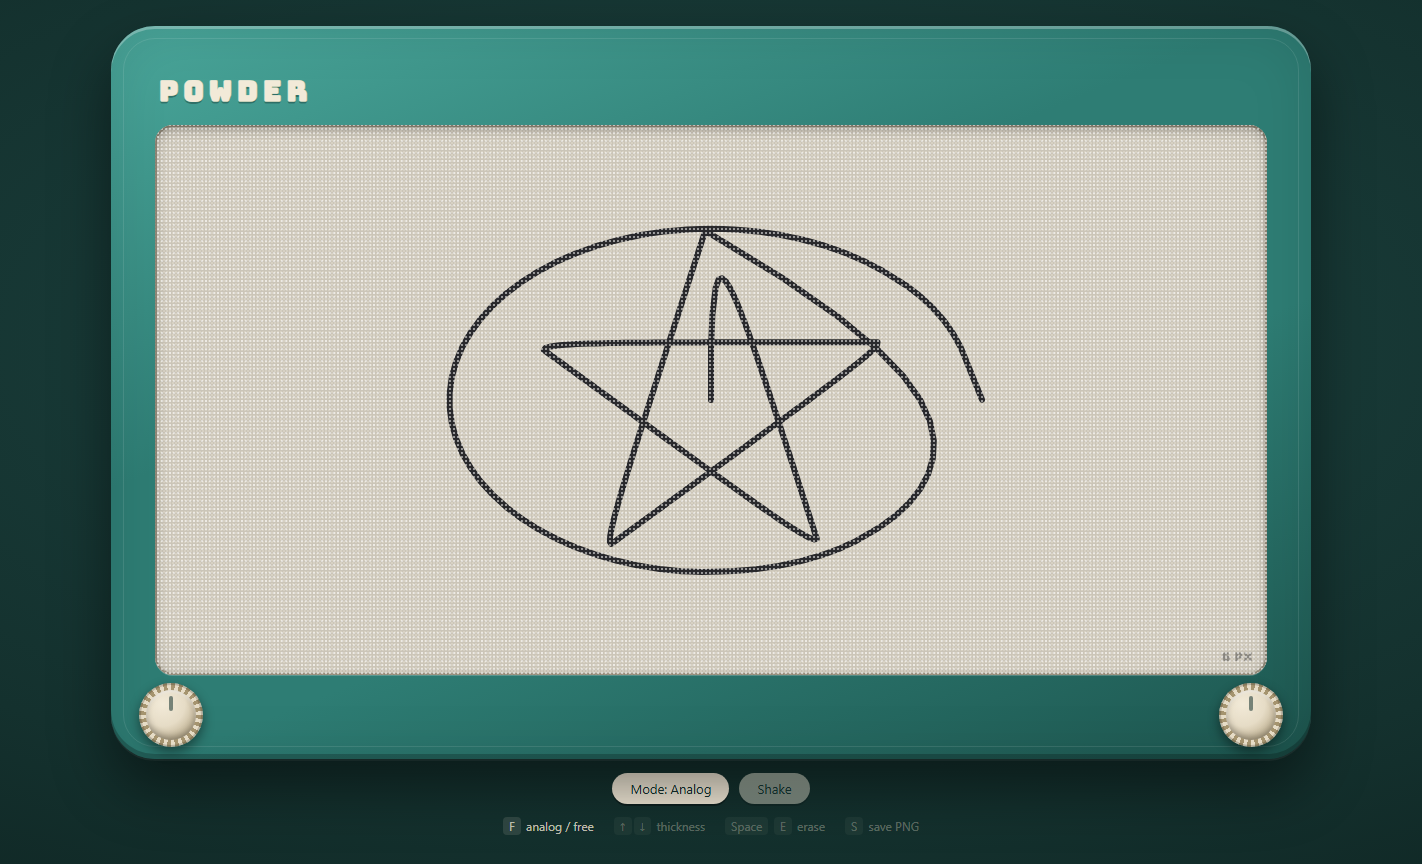
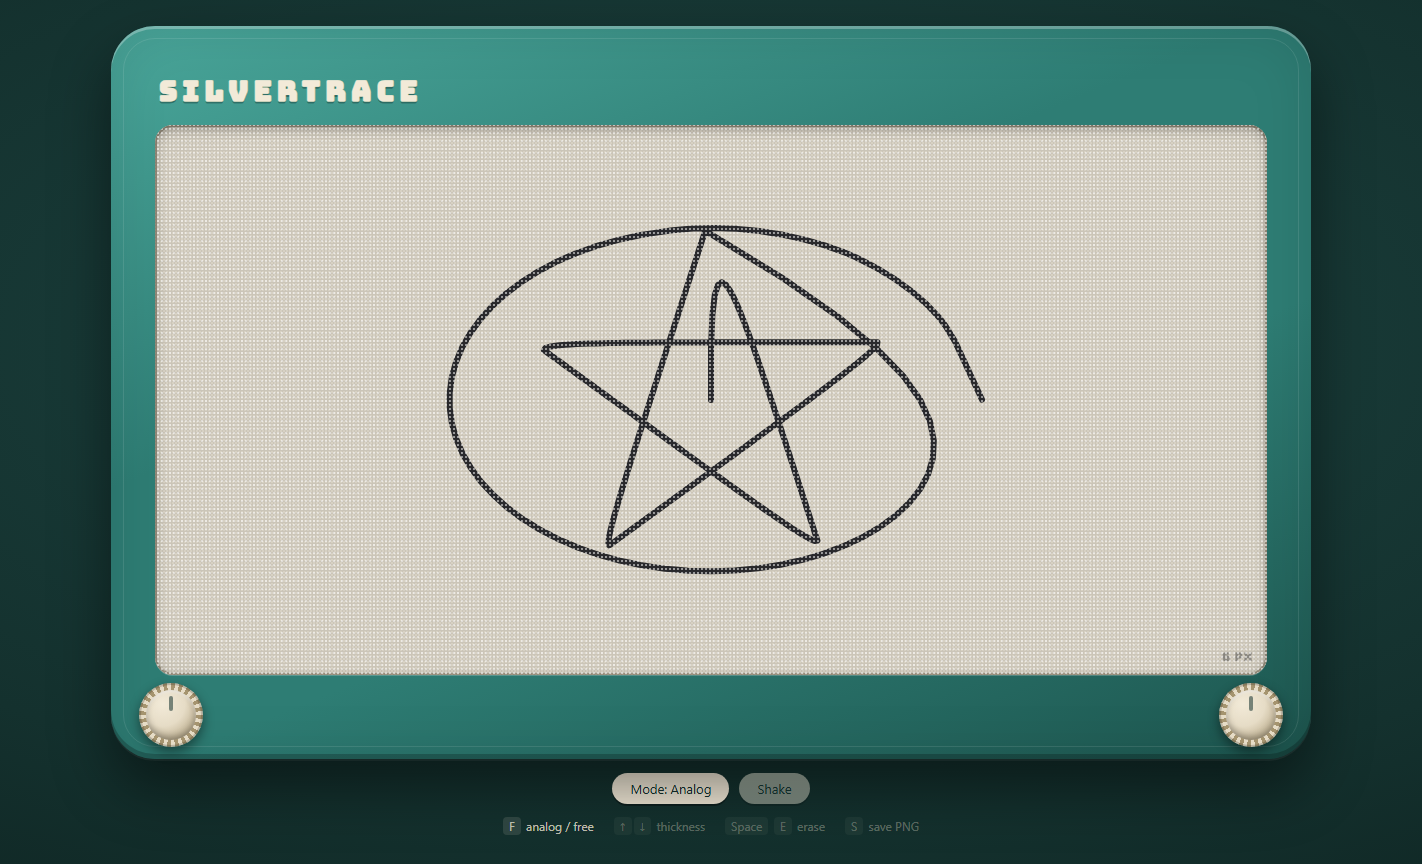
spec+plan: rename the toy to Silvertrace
The name is part of the spec, so this lands as a spec+plan change: title,
wordmark, file headers, and the save filename in the TODO(save) note.

Kept "powder" lowercase wherever it means the material on the screen — the
grain, the fade-out, the --screen swatch — since that is still what the toy
is coated in. Re-captured docs/screenshot.png from the running app so the
wordmark in it matches.

Claude-Session: https://claude.ai/code/session_01LBkHY83tuBzBnzRUBXoFDG

diff --git a/sketch.js b/sketch.js
@@ -1,5 +1,5 @@
 /* =========================================================================
-   Powder — a drawing toy.
+   Silvertrace — a drawing toy.
 
    The core idea: in analog mode the stylus is ALWAYS touching the powder.
    You never click. The pointer is a target, and the stylus chases it with
@@ -263,7 +263,7 @@ function onKeyDown(event) {
      button and the legend entries when it lands.
 
    TODO(save): S exports the drawing. canvas.toDataURL('image/png') into a
-     temporary <a download="powder.png">, click it, revoke. The canvas holds
+     temporary <a download="silvertrace.png">, click it, revoke. The canvas holds
      only the ink — the powder color comes from CSS — so composite onto an
      offscreen canvas filled with --screen first, or the PNG is transparent.
 

diff --git a/index.html b/index.html
@@ -3,7 +3,7 @@
 <head>
   <meta charset="utf-8" />
   <meta name="viewport" content="width=device-width, initial-scale=1, viewport-fit=cover" />
-  <title>Powder — a drawing toy</title>
+  <title>Silvertrace — a drawing toy</title>
 
   <!-- One display font for the wordmark and HUD. Body/legend text uses the system stack. -->
   <link rel="preconnect" href="https://fonts.googleapis.com" />
@@ -18,7 +18,7 @@
 
     <!-- Bezel: the chunky plastic shell around the screen. -->
     <div class="bezel">
-      <h1 class="wordmark">Powder</h1>
+      <h1 class="wordmark">Silvertrace</h1>
 
       <!-- Screen: the recessed window. The canvas is sized to this element in JS. -->
       <div class="screen" id="screen">

diff --git a/style.css b/style.css
@@ -1,5 +1,5 @@
 /* =========================================================================
-   Powder — stylesheet.
+   Silvertrace — stylesheet.
 
    The look: a chunky molded-plastic toy sitting on a dark surface. Depth
    comes from gradients and inset shadows rather than images, so there are no

diff --git a/README.md b/README.md
@@ -1,4 +1,5 @@
 # SILVERTRACE
+
 A browser drawing toy: one continuous line that you steer instead of draw.
 Inspired by the mechanical knob-and-stylus toys of the 1960s, rebuilt for the web
 with vanilla HTML, CSS, and JavaScript. No frameworks, no build step.
@@ -110,7 +111,7 @@ mouse leaves one continuous charcoal line that trails behind the cursor. Two kno
 the bottom corners. A thickness readout in the corner of the screen and a keyboard
 legend below the frame.
 
-![Powder running: a teal toy frame with a star and a loose ellipse drawn on the warm gray screen](docs/screenshot.png)
+![Silvertrace running: a teal toy frame with a star and a loose ellipse drawn on the warm gray screen](docs/screenshot.png)
 
 Captured from the running app. The mouse traced a five-pointed star and then a
 loop around it — note where the line overshoots each point of the star and cuts
